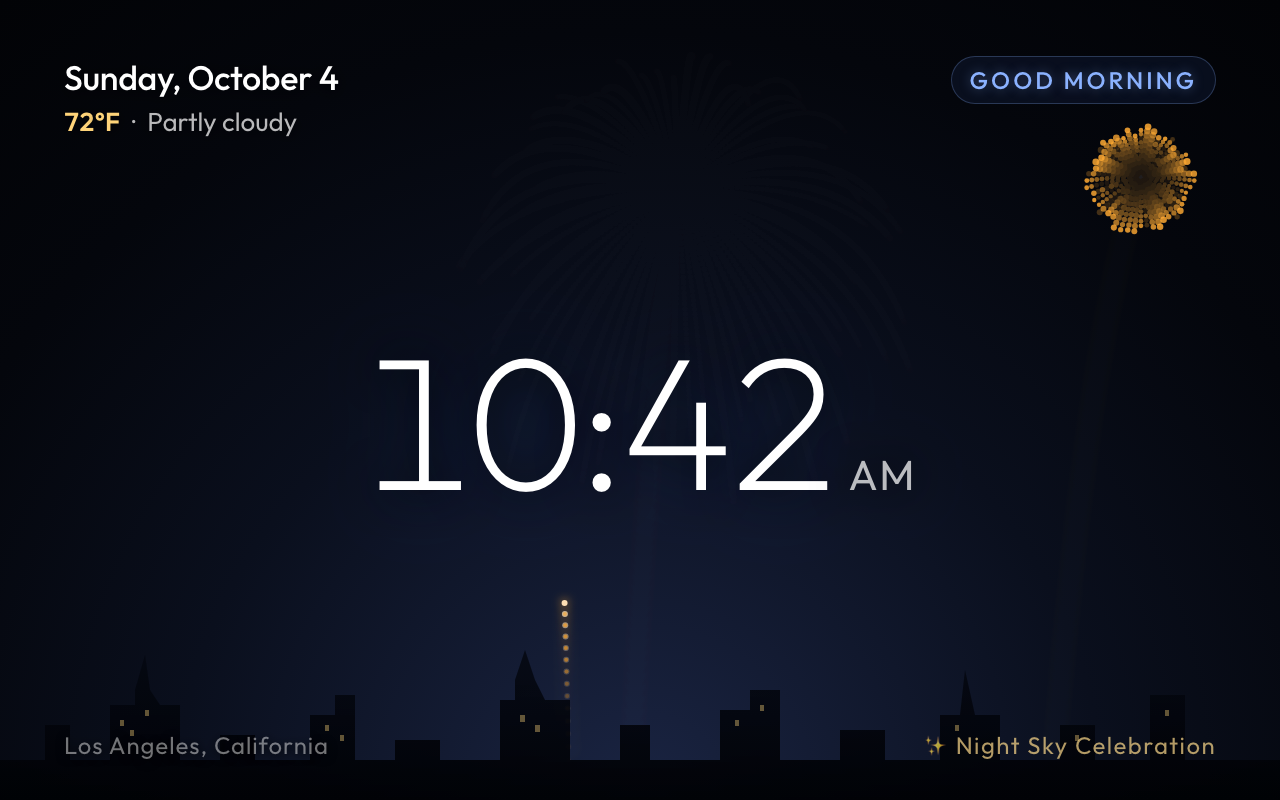
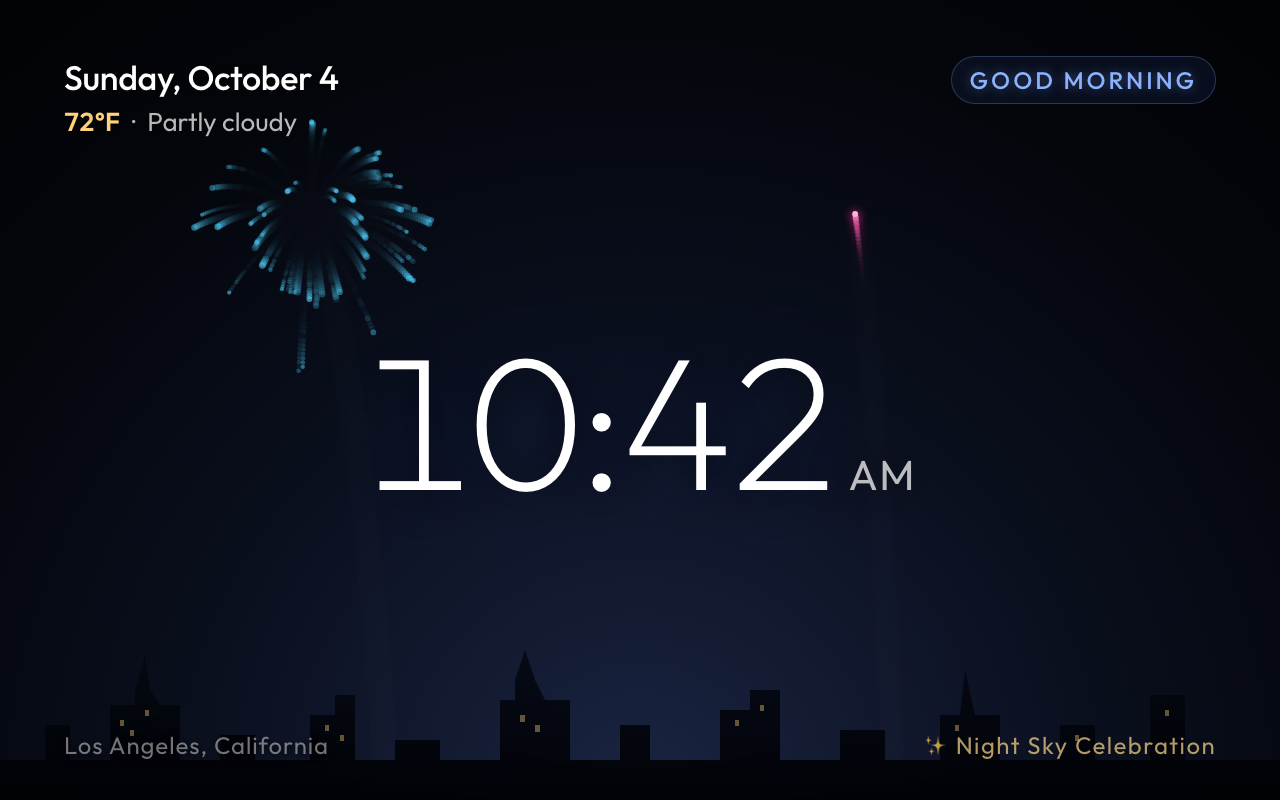
examples: new Fireworks screenshot

diff --git a/examples/fireworks/README.md b/examples/fireworks/README.md
@@ -38,4 +38,4 @@ The fireworks don't use any data.
   screensaver-style screen in a playlist rather than a display's only screen around the clock.
 - The trails fade the canvas toward transparent rather than painting it dark, so the sky gradient and the
   skyline behind it stay visible.
-- The screenshot shows the scene 160 frames in (under 3 seconds at 60 Hz).
+- The screenshot shows the scene 140 frames in (just over 2 seconds at 60 Hz).
